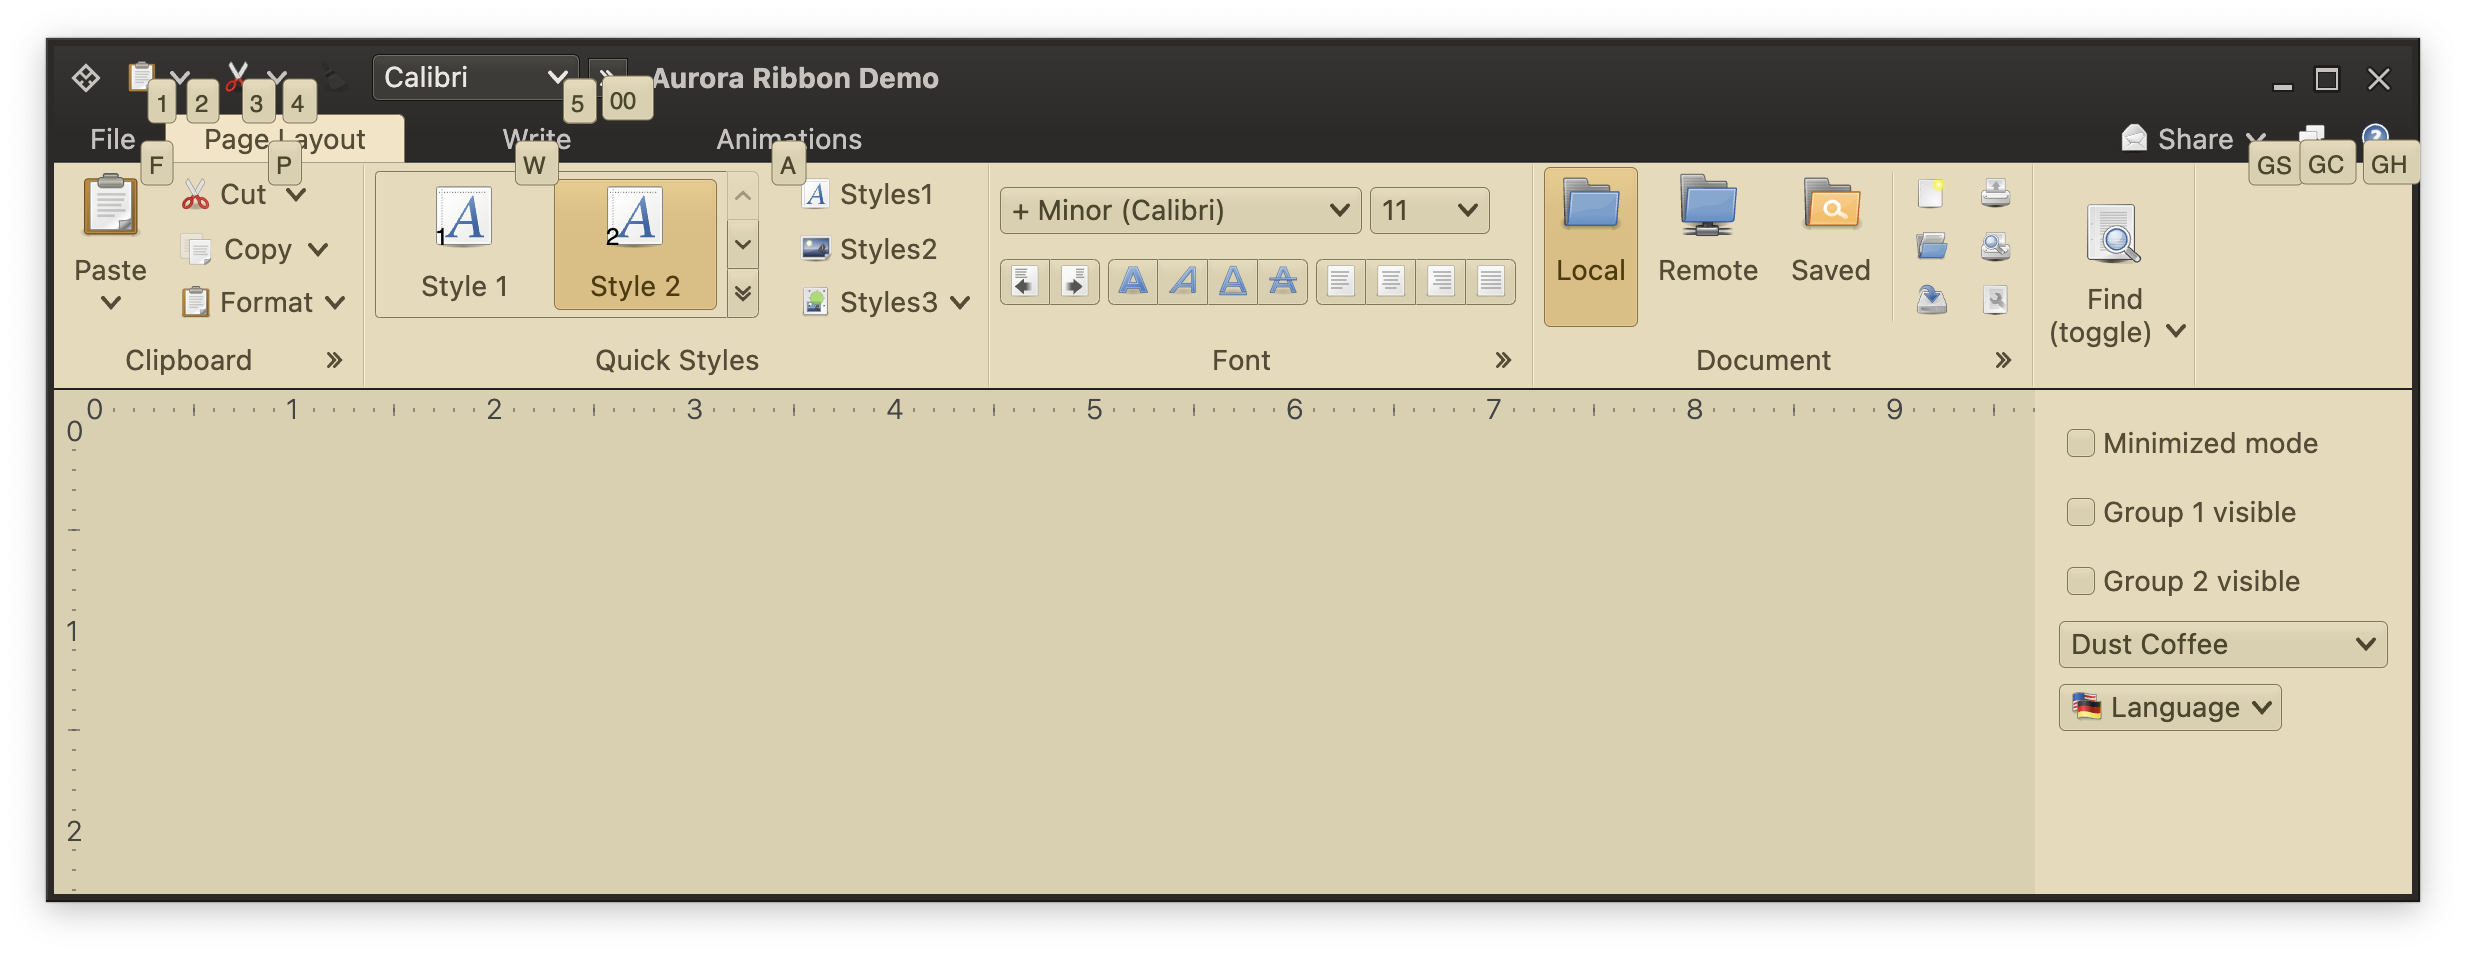
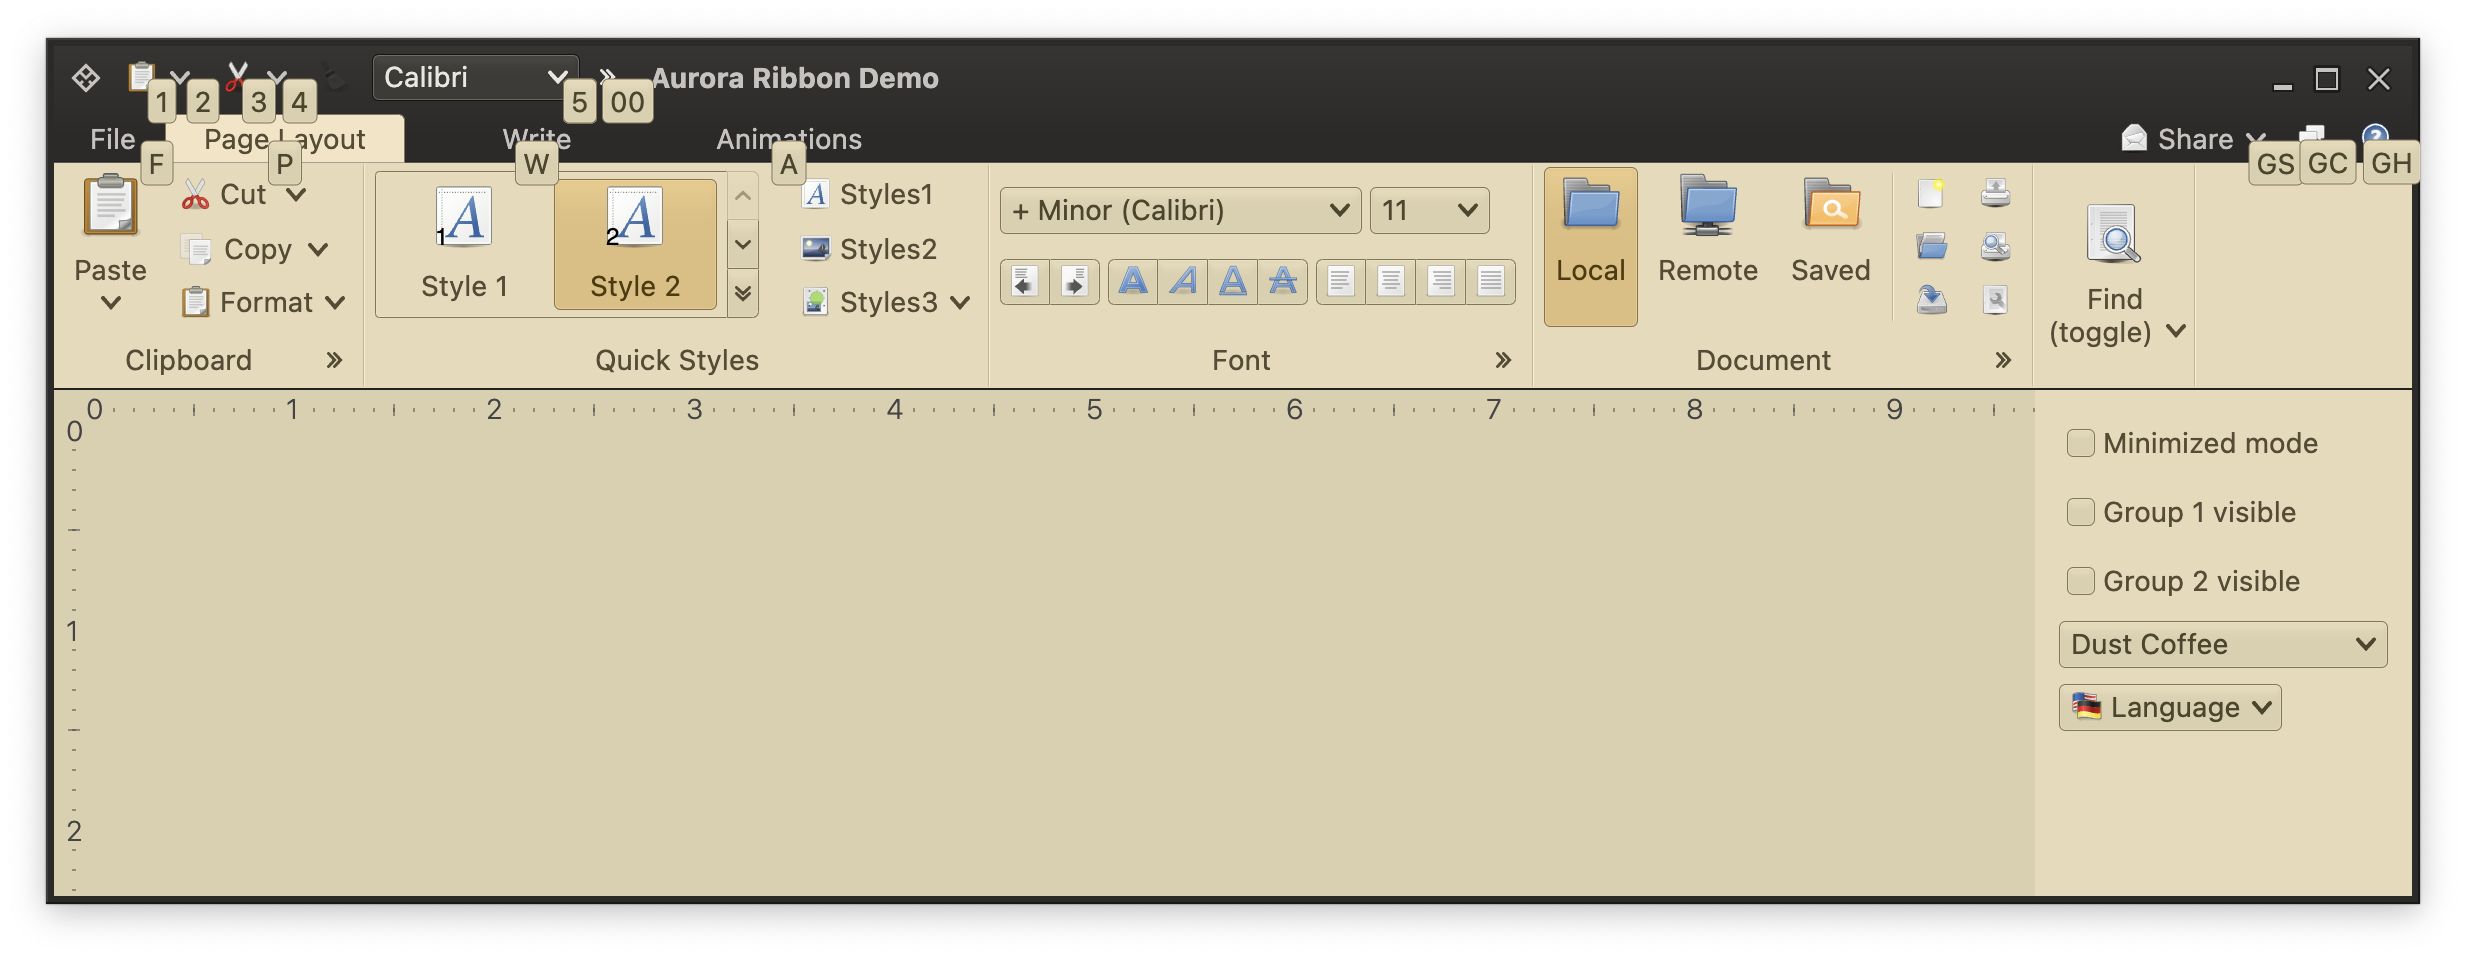
More tweaks to the visuals of ribbon keytips
* Align vertical paddings with the default vertical paddings of compact command buttons
* Refactor the drawing to use DrawScope.drawText instead of the lower level Skia's drawTextLine calls for consistent typography

For #56

diff --git a/component/src/desktopMain/kotlin/org/pushingpixels/aurora/component/ribbon/impl/KeyTipTracker.kt b/component/src/desktopMain/kotlin/org/pushingpixels/aurora/component/ribbon/impl/KeyTipTracker.kt
@@ -25,20 +25,16 @@ import androidx.compose.ui.geometry.Offset
 import androidx.compose.ui.geometry.Size
 import androidx.compose.ui.graphics.Outline
 import androidx.compose.ui.graphics.drawscope.DrawScope
-import androidx.compose.ui.graphics.drawscope.drawIntoCanvas
 import androidx.compose.ui.graphics.drawscope.withTransform
-import androidx.compose.ui.graphics.nativeCanvas
 import androidx.compose.ui.platform.LocalDensity
 import androidx.compose.ui.platform.LocalFontFamilyResolver
 import androidx.compose.ui.platform.LocalLayoutDirection
-import androidx.compose.ui.text.Paragraph
-import androidx.compose.ui.text.TextStyle
+import androidx.compose.ui.text.*
 import androidx.compose.ui.text.font.FontFamily
-import androidx.compose.ui.text.resolveDefaults
+import androidx.compose.ui.text.style.TextOverflow
 import androidx.compose.ui.unit.*
 import kotlinx.coroutines.flow.MutableStateFlow
 import kotlinx.coroutines.flow.StateFlow
-import org.jetbrains.skia.*
 import org.pushingpixels.aurora.common.AuroraInternalApi
 import org.pushingpixels.aurora.common.AuroraPopupManager
 import org.pushingpixels.aurora.common.AuroraRect
@@ -232,6 +228,7 @@ fun RibbonKeyTipOverlay(modifier: Modifier, insets: Dp) {
     val layoutDirection = LocalLayoutDirection.current
     val textStyle = resolveDefaults(LocalTextStyle.current, layoutDirection)
     val fontFamilyResolver = LocalFontFamilyResolver.current
+    val textMeasurer = rememberTextMeasurer(cacheSize = 50)
 
     val visibilityState by KeyTipTracker.uiVisibleFlow.collectAsState()
     val chainDepth by KeyTipTracker.uiChainDepth.collectAsState()
@@ -246,6 +243,7 @@ fun RibbonKeyTipOverlay(modifier: Modifier, insets: Dp) {
                             tracked,
                             textStyle,
                             density,
+                            textMeasurer,
                             fontFamilyResolver,
                             layoutDirection,
                             insets,
@@ -327,6 +325,7 @@ internal fun DrawScope.drawKeyTip(
     keyTipInfo: KeyTipTracker.KeyTipLink,
     textStyle: TextStyle,
     density: Density,
+    textMeasurer: TextMeasurer,
     fontFamilyResolver: FontFamily.Resolver,
     layoutDirection: LayoutDirection,
     insets: Dp,
@@ -335,10 +334,6 @@ internal fun DrawScope.drawKeyTip(
     tokensOverlayProvider: ContainerColorTokensOverlay.Provider?,
     painters: AuroraPainters
 ) {
-    val keyTipFont = Font(Typeface.makeEmpty()).also {
-        it.size *= density.density
-    }
-
     val leftPadding = KeyTipPaddingValues.calculateLeftPadding(layoutDirection)
     val topPadding = KeyTipPaddingValues.calculateTopPadding()
 
@@ -357,7 +352,6 @@ internal fun DrawScope.drawKeyTip(
     val tipSizingInfo = getKeyTipSize(keyTipInfo.keyTip, textStyle, density, fontFamilyResolver, layoutDirection)
     val tipWidth = tipSizingInfo.first.width
     val tipHeight = tipSizingInfo.first.height
-    val baseline = tipSizingInfo.second
 
     val fullOffsetX = keyTipInfo.screenRect.x + keyTipInfo.anchor.x - tipWidth / 2 - insets.toPx()
     val fullOffsetY = keyTipInfo.screenRect.y + keyTipInfo.anchor.y - tipHeight / 2 - insets.toPx()
@@ -394,25 +388,15 @@ internal fun DrawScope.drawKeyTip(
             outlineSupplier = KeyTipOutlineSuppler,
             colorTokens = colorTokens)
 
-        this.drawIntoCanvas { canvas ->
-            val nativeCanvas = canvas.nativeCanvas
-            nativeCanvas.drawTextLine(
-                line = TextLine.make(
-                    text = keyTipInfo.keyTip,
-                    font = keyTipFont
-                ),
-                x = leftPadding.toPx(),
-                y = topPadding.toPx() + baseline,
-                paint = Paint().also { skiaPaint ->
-                    skiaPaint.color4f = Color4f(
-                        r = colorTokens.onContainer.red,
-                        g = colorTokens.onContainer.green,
-                        b = colorTokens.onContainer.blue,
-                        a = colorTokens.onContainer.alpha
-                    )
-                }
-            )
-        }
+        drawText(
+            textMeasurer = textMeasurer,
+            text = keyTipInfo.keyTip,
+            topLeft = Offset(leftPadding.toPx(), topPadding.toPx()),
+            style = textStyle.copy(color = colorTokens.onContainer),
+            overflow = TextOverflow.Visible,
+            softWrap = false,
+            maxLines = 1,
+        )
     }
 }
 

diff --git a/component/src/desktopMain/kotlin/org/pushingpixels/aurora/component/AuroraCommandButton.kt b/component/src/desktopMain/kotlin/org/pushingpixels/aurora/component/AuroraCommandButton.kt
@@ -47,6 +47,7 @@ import androidx.compose.ui.semantics.Role
 import androidx.compose.ui.semantics.role
 import androidx.compose.ui.semantics.semantics
 import androidx.compose.ui.text.TextStyle
+import androidx.compose.ui.text.rememberTextMeasurer
 import androidx.compose.ui.text.resolveDefaults
 import androidx.compose.ui.unit.*
 import kotlinx.coroutines.*
@@ -1946,6 +1947,7 @@ private fun CommandButtonKeyTip(
     val layoutDirection = LocalLayoutDirection.current
     val textStyle = resolveDefaults(LocalTextStyle.current, layoutDirection)
     val fontFamilyResolver = LocalFontFamilyResolver.current
+    val textMeasurer = rememberTextMeasurer(cacheSize = 10)
 
     Box {
         Canvas(modifier = Modifier.matchParentSize()) {
@@ -1962,6 +1964,7 @@ private fun CommandButtonKeyTip(
                 ),
                 textStyle = textStyle,
                 density = density,
+                textMeasurer = textMeasurer,
                 fontFamilyResolver = fontFamilyResolver,
                 layoutDirection = layoutDirection,
                 insets = 0.dp,

diff --git a/component/src/desktopMain/kotlin/org/pushingpixels/aurora/component/ribbon/impl/RibbonTaskbarImpl.kt b/component/src/desktopMain/kotlin/org/pushingpixels/aurora/component/ribbon/impl/RibbonTaskbarImpl.kt
@@ -83,7 +83,10 @@ private class TaskbarExpandCommandButtonPresentationModel(
     BaseCommandButtonPresentationModel {
     override val presentationState = CommandButtonPresentationState.Small
     override val backgroundAppearanceStrategy = BackgroundAppearanceStrategy.Flat
-    override val contentPadding: PaddingValues = PaddingValues(horizontal = 2.dp, vertical = 4.dp)
+    override val contentPadding: PaddingValues =
+        PaddingValues(start = 2.dp, end = 2.dp,
+            top = CommandButtonSizingConstants.CompactButtonContentPadding.calculateTopPadding(),
+            bottom = CommandButtonSizingConstants.CompactButtonContentPadding.calculateBottomPadding())
     override val colorTokensOverlayProvider: ContainerColorTokensOverlay.Provider? = null
     override val horizontalAlignment: HorizontalAlignment = HorizontalAlignment.Center
     override val iconDimension: DpSize? = null
